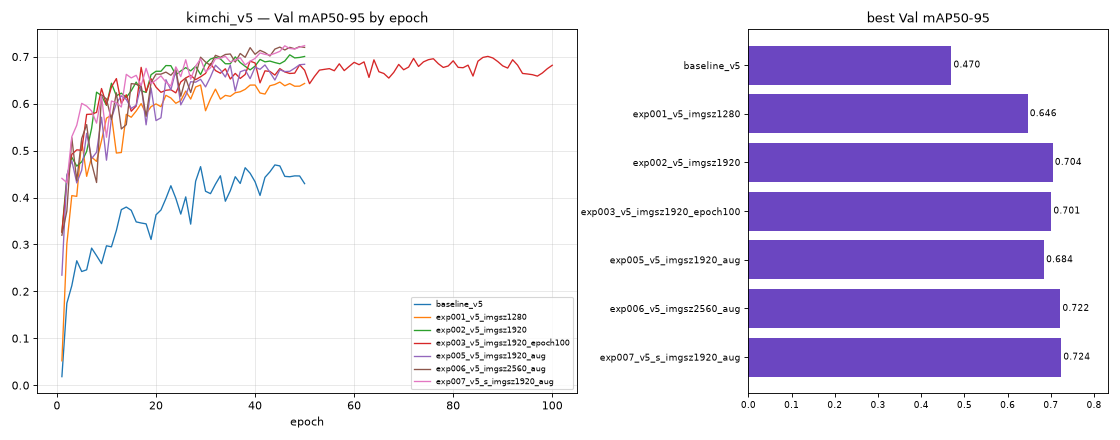
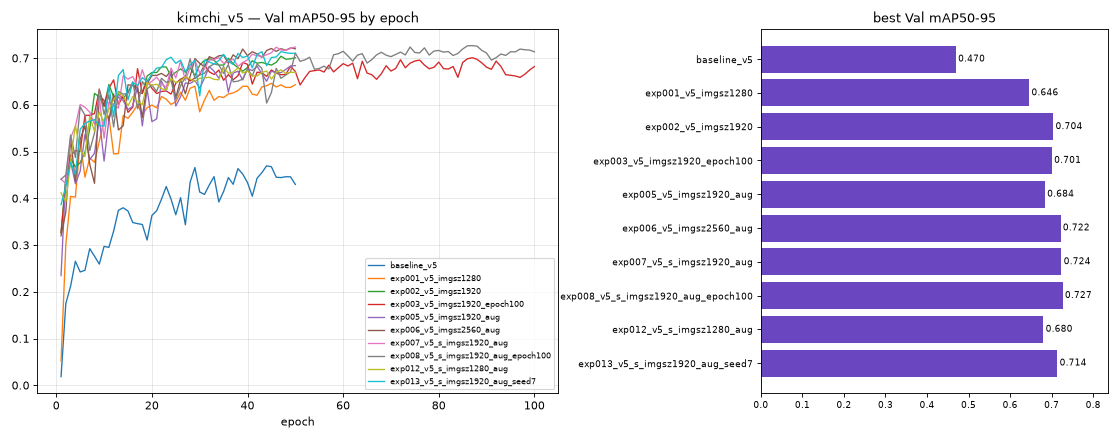
feat(subject8): 1라운드 결과 통합(exp008·010·010b·012·013) + 추론 옵션 비교(15, TTA·agnostic NMS 손해) + 2라운드 6명 계획(exp014~017, Final 후보 3개 × seed) + Frozen Test 스크립트(16)

diff --git a/subject8/scripts/16_evaluate_final_test.py b/subject8/scripts/16_evaluate_final_test.py
@@ -1,0 +1,74 @@
+"""Final Model Frozen Test 평가 — Final Model 을 Validation 근거로 확정한 뒤 **한 번만** 실행한다 (가이드 21장, 산출물 5).
+
+    python scripts/16_evaluate_final_test.py
+
+순서 (가이드 21.1): Validation 으로 Final 선택 → models/final/final_best.pt 복사 · src/registry.py OFFICIAL["final"] 에 실행 이름
+→ reports/final_model_selection.md 작성 → 이 스크립트 (Frozen Test 82장).
+결과는 보고만 한다 — 이 점수를 보고 모델·조건을 다시 고르지 않는다 (가이드 4037행).
+
+결과:
+    reports/05_final/final_metrics.csv · final_class_metrics.csv          Frozen Test 성능 (산출물 5)
+    reports/figures/final/final_test_{confusion_matrix, confusion_matrix_normalized, pr_curve}.png
+"""
+import csv
+import os
+import shutil
+import sys
+from pathlib import Path
+
+PROJECT_ROOT = Path(__file__).resolve().parents[1]
+if str(PROJECT_ROOT) not in sys.path:
+    sys.path.insert(0, str(PROJECT_ROOT))
+os.chdir(PROJECT_ROOT)
+
+from src import registry  # noqa: E402
+from src.evaluate_detector import evaluate_detector  # noqa: E402
+from src.split_builder import SplitBuilder  # noqa: E402
+from src.train_detector import rel, sha256_short  # noqa: E402
+
+OUT_DIR = PROJECT_ROOT / "reports" / "05_final"
+FIG_DIR = PROJECT_ROOT / "reports" / "figures" / "final"
+SELECTION = PROJECT_ROOT / "reports" / "final_model_selection.md"
+
+
+def main():
+    weight, run = registry.resolve("final")            # Final 이 정해지지 않았으면 여기서 멈춘다
+    if not SELECTION.is_file():
+        sys.exit(f"{rel(SELECTION)} 가 없습니다. Final 선택 이유를 먼저 기록하세요 (가이드 21.1).")
+    if any(OUT_DIR.glob("final_metrics.csv")):
+        sys.exit(f"{rel(OUT_DIR / 'final_metrics.csv')} 가 이미 있습니다. Frozen Test 는 한 번만 평가합니다.")
+    version = registry.run_version(run)
+    a = registry.run_args(run)
+    data = SplitBuilder(PROJECT_ROOT, version).dataset_yaml
+    print("=" * 65)
+    print(f" [Subject 08] Frozen Test — {run} ({rel(weight)}, sha256 {sha256_short(weight)}) · imgsz {a['imgsz']}")
+    print("=" * 65)
+    r = evaluate_detector(weight, data, "test", a["imgsz"], max(1, a["batch"]), project=PROJECT_ROOT / "runs" / "eval",
+                          name=f"final_test_{run}", allow_test=True)
+    OUT_DIR.mkdir(parents=True, exist_ok=True)
+    with (OUT_DIR / "final_metrics.csv").open("w", encoding="utf-8", newline="") as f:
+        w = csv.writer(f)
+        w.writerow(["model_version", "dataset_version", "split", "imgsz", "batch", "epochs", "seed",
+                    "images", "instances", "precision", "recall", "map50", "map50_95"])
+        w.writerow([run, version, "test", a["imgsz"], a["batch"], a["epochs"], a["seed"],
+                    r["images"], r["instances"], r["precision"], r["recall"], r["map50"], r["map50_95"]])
+    with (OUT_DIR / "final_class_metrics.csv").open("w", encoding="utf-8-sig", newline="") as f:
+        w = csv.DictWriter(f, fieldnames=list(r["per_class"][0]))
+        w.writeheader()
+        w.writerows(r["per_class"])
+    FIG_DIR.mkdir(parents=True, exist_ok=True)
+    for src, dst in (("confusion_matrix.png", "final_test_confusion_matrix.png"),
+                     ("confusion_matrix_normalized.png", "final_test_confusion_matrix_normalized.png"),
+                     ("BoxPR_curve.png", "final_test_pr_curve.png")):
+        if (r["save_dir"] / src).is_file():
+            shutil.copy2(r["save_dir"] / src, FIG_DIR / dst)
+    print(f"\n Frozen Test {r['images']}장 · 정답 {r['instances']}개")
+    print(f" P {r['precision']:.3f} | R {r['recall']:.3f} | mAP50 {r['map50']:.3f} | mAP50-95 {r['map50_95']:.3f}")
+    for c in r["per_class"]:
+        if c["instances"]:
+            print(f"  {c['class_id']} {c['class_name']:<22} {c['instances']:>4}  mAP50-95 {c['map50_95']:.3f}")
+    print(f" 저장: {rel(OUT_DIR)}/, {rel(FIG_DIR)}/")
+
+
+if __name__ == "__main__":
+    main()

diff --git a/subject8/scripts/15_eval_inference_options.py b/subject8/scripts/15_eval_inference_options.py
@@ -1,0 +1,68 @@
+"""추론 설정 비교 (재학습 없음) — 학습된 모델을 Validation 에서 추론 옵션만 바꿔 평가한다.
+
+    python scripts/15_eval_inference_options.py                                     # 기본 후보 (exp007 · exp008)
+    python scripts/15_eval_inference_options.py --models exp015_v5_s_imgsz2240_aug exp009_v5_m_imgsz1920_aug
+
+옵션 4가지: 기본 · TTA(augment=True, 좌우반전·크기 바꿔 여러 번 예측해 합침) · agnostic_nms(Class 가 달라도 겹친 박스 하나로)
+· 둘 다. 모델마다 학습 때 imgsz·batch 로 평가한다 (src/registry). Frozen Test 는 쓰지 않는다.
+
+결과: reports/04_improvement/inference_options.csv (모델 × 옵션 × 전체·Class 별 P·R·mAP50·mAP50-95·속도) — 다시 실행하면 같은 모델 줄만 바꾼다
+가설: kimchi_v1 실패 분석 H3 "같은 물체를 두 Class 로 예측" (FP 의 절반) → agnostic_nms 로 줄어드나, TTA 로 작은 이물이 늘어나나.
+"""
+import argparse
+import csv
+import os
+import sys
+from pathlib import Path
+
+PROJECT_ROOT = Path(__file__).resolve().parents[1]
+if str(PROJECT_ROOT) not in sys.path:
+    sys.path.insert(0, str(PROJECT_ROOT))
+os.chdir(PROJECT_ROOT)
+
+from src import registry  # noqa: E402
+from src.evaluate_detector import evaluate_detector  # noqa: E402
+from src.split_builder import SplitBuilder  # noqa: E402
+from src.train_detector import rel  # noqa: E402
+
+OUT = PROJECT_ROOT / "reports" / "04_improvement" / "inference_options.csv"
+OPTIONS = {"기본": {}, "TTA": {"augment": True}, "agnostic_nms": {"agnostic_nms": True},
+           "TTA+agnostic_nms": {"augment": True, "agnostic_nms": True}}
+DEFAULT_MODELS = ["exp007_v5_s_imgsz1920_aug", "exp008_v5_s_imgsz1920_aug_epoch100"]
+
+
+def main():
+    ap = argparse.ArgumentParser(description="추론 옵션 비교 (Validation)")
+    ap.add_argument("--models", nargs="*", default=DEFAULT_MODELS, help="실행 이름 (models/README.md)")
+    args = ap.parse_args()
+    old = list(csv.DictReader(OUT.open(encoding="utf-8-sig"))) if OUT.is_file() else []
+    rows = [r for r in old if r["model"] not in args.models]
+    for run in args.models:
+        weight, _ = registry.resolve(run)
+        a = registry.run_args(run)
+        if registry.run_tiles(run):
+            print(f" 건너뜀 (타일링 모델): {run}")
+            continue
+        data = SplitBuilder(PROJECT_ROOT, registry.run_version(run)).dataset_yaml
+        for opt, kw in OPTIONS.items():
+            r = evaluate_detector(weight, data, "val", a["imgsz"], max(1, a["batch"]), project=PROJECT_ROOT / "runs" / "eval",
+                                  name=f"infer_{run}_{opt}", **kw)
+            ms = sum(r["speed_ms"].values())
+            print(f" {run:<36} {opt:<17} P {r['precision']:.3f} R {r['recall']:.3f} mAP50 {r['map50']:.3f} "
+                  f"mAP50-95 {r['map50_95']:.3f}  {ms:.0f}ms/장")
+            base = {"model": run, "option": opt, "imgsz": a["imgsz"], "ms_per_image": round(ms, 1)}
+            rows.append({**base, "class": "all", "instances": r["instances"],
+                         **{k: r[k] for k in ("precision", "recall", "map50", "map50_95")}})
+            for c in r["per_class"]:
+                if c["instances"]:
+                    rows.append({**base, "class": c["class_id"], "instances": c["instances"],
+                                 **{k: c[k] for k in ("precision", "recall", "map50", "map50_95")}})
+    with OUT.open("w", encoding="utf-8-sig", newline="") as f:
+        w = csv.DictWriter(f, fieldnames=list(rows[0]))
+        w.writeheader()
+        w.writerows(rows)
+    print(f" 저장: {rel(OUT)}")
+
+
+if __name__ == "__main__":
+    main()

diff --git a/subject8/scripts/11_train_v5.py b/subject8/scripts/11_train_v5.py
@@ -95,6 +95,20 @@ RUNS = {
     "exp013": {"change": {**_EXP007, "seed": 7}, "run_name": "exp013_v5_s_imgsz1920_aug_seed7",
                "title": "kimchi_v5 반복 실험 exp013", "compare": "exp007_v5 (seed 42)", "augmentation": _AUG_TEXT,
                "note": "exp007_v5 와 seed 만 다르다 (42 → 7). 같은 조건에서 점수가 얼마나 흔들리는지 재서, 실험 사이 0.02 차이가 의미 있는지 판단한다."},
+    # ── 2라운드 (Final 후보 3개 × seed 2개 — docs/project/experiment_handoff.md 8장) ──
+    # exp013 결과 seed 만 바꿔도 ±0.01 흔들림 → 후보마다 seed 2개 이상 평균으로 비교한다
+    "exp014": {"change": {**_EXP007, "seed": 123}, "run_name": "exp014_v5_s_imgsz1920_aug_seed123",
+               "title": "kimchi_v5 반복 실험 exp014", "compare": "exp007_v5 · exp013_v5 (같은 조건 seed 42 · 7)", "augmentation": _AUG_TEXT,
+               "note": "exp007 조건의 세 번째 seed (123). 후보 A(11s · 1920) 의 seed 평균·흔들림을 잰다."},
+    "exp015": {"change": {**_EXP007, "imgsz": 2240, "batch": 2}, "run_name": "exp015_v5_s_imgsz2240_aug",
+               "title": "kimchi_v5 개선 실험 exp015", "compare": "exp007_v5 (imgsz 1920)", "augmentation": _AUG_TEXT,
+               "note": "exp007_v5 와 다른 변수는 imgsz(1920 → 2240) 하나 (batch 3 → 2, GPU 9.4GB 측정). 11n 에서 해상도 효과가 컸고(+0.038), 11s·2560 은 메모리 초과라 2240."},
+    "exp016": {"change": {**_EXP007, "imgsz": 2240, "batch": 2, "seed": 7}, "run_name": "exp016_v5_s_imgsz2240_aug_seed7",
+               "title": "kimchi_v5 반복 실험 exp016", "compare": "exp015_v5 (seed 42)", "augmentation": _AUG_TEXT,
+               "note": "exp015 조건의 두 번째 seed (7). 후보 B(11s · 2240) 의 seed 평균."},
+    "exp017": {"change": {**_EXP007, "model_name": "yolo11m.pt", "batch": 2, "seed": 7}, "run_name": "exp017_v5_m_imgsz1920_aug_seed7",
+               "title": "kimchi_v5 반복 실험 exp017", "compare": "exp009_v5 (seed 42)", "augmentation": _AUG_TEXT,
+               "note": "exp009 조건(YOLO11m · 1920 · batch 2, GPU 9.8GB 측정)의 두 번째 seed (7). 후보 C(11m · 1920) 의 seed 평균."},
 }
 REPORT_DIR = PROJECT_ROOT / "reports" / "04_improvement"
 BASELINE_REPORT = PROJECT_ROOT / "reports" / "02_baseline" / "baseline_training_condition.md"   # 가이드 이름 (산출물 2)

diff --git a/subject8/src/evaluate_detector.py b/subject8/src/evaluate_detector.py
@@ -19,8 +19,9 @@ def count_split_images(data_yaml, split: str) -> int:
 
 
 def evaluate_detector(model_path, data_yaml, split: str, imgsz: int, batch: int = 16,
-                      project="runs", name="eval", allow_test: bool = False) -> Dict:
-    """model.val() 로 평가 → 전체·Class별 지표 dict. 그래프(PR 곡선, Confusion Matrix)는 project/name 에 저장"""
+                      project="runs", name="eval", allow_test: bool = False, **val_kwargs) -> Dict:
+    """model.val() 로 평가 → 전체·Class별 지표 dict. 그래프(PR 곡선, Confusion Matrix)는 project/name 에 저장.
+    val_kwargs 는 model.val() 에 그대로 넘긴다 (예: augment=True 로 TTA, agnostic_nms=True)"""
     if split == "test" and not allow_test:
         raise PermissionError("Frozen Test 는 Final Model 확정 후 8일차에만 평가합니다 (allow_test=True 필요).")
     if split not in ("train", "val", "test"):
@@ -30,7 +31,7 @@ def evaluate_detector(model_path, data_yaml, split: str, imgsz: int, batch: int 
 
     model = YOLO(str(model_path))
     m = model.val(data=str(data_yaml), split=split, imgsz=imgsz, batch=batch,
-                  plots=True, project=str(project), name=name, exist_ok=True, verbose=False)
+                  plots=True, project=str(project), name=name, exist_ok=True, verbose=False, **val_kwargs)
 
     names = m.names
     per_class = []

diff --git a/subject8/docs/project/experiment_handoff.md b/subject8/docs/project/experiment_handoff.md
@@ -127,3 +127,53 @@ cd .. && git add -A subject8 && git commit -m "…" && git fetch . feature/ariuc
 - 학습이 끝났는데 조건 기록에서 오류가 나면 학습을 다시 하지 말고 `python scripts/11_train_v5.py --run <실험> --report-only`.
 - 실행 폴더·Weight 가 이미 있으면 스크립트가 멈춘다 (덮어쓰지 않음). 실패한 실행을 다시 하려면 `runs/<실행>/` 만 지운다 (`results.csv` 가 없을 때만).
 - 갈변(작은 점)은 Train 에 4개뿐이라 이번 실험들로도 크게 좋아지기 어렵다 — 한계로 기록돼 있다 ([`baseline_vs_improved.md`](../../reports/04_improvement/baseline_vs_improved.md) 3장).
+
+## 8. 2라운드 — 6명 동시, 오늘 Final Model 확정 (2026-10-19)
+
+### 1라운드 결과 (같은 Val 104장, mAP50-95)
+
+| 실험 | 결과 | 알게 된 것 |
+|---|---|---|
+| exp008 (exp007 + epoch 100) | 0.727 | +0.003 — 학습량을 늘려도 거의 안 오름 (시간 2배) |
+| **exp013 (exp007 과 seed 만 다름)** | 0.714 | **seed 만 바꿔도 ±0.01 흔들림** → 0.01 안쪽 차이는 의미 없음 · 후보는 seed 2개 이상 평균으로 비교 |
+| exp012 (해상도 1280) | 0.680 | -0.044 — 11s 에서도 해상도가 중요 |
+| exp010 (11s + 타일링) | 0.723 (원본 단위, exp007 0.729) | 효과 없음 — 11s 는 원본 1920 만으로 충분 |
+| exp010b (exp010 을 혜성 PC 에서 다시) | 0.723 | **다른 PC 에서 소수 4자리까지 같음 — 재현성 확인** |
+| 추론 옵션 (exp007·exp008, `15_eval_inference_options.py`) | TTA 0.716 · agnostic_nms 0.715 (기본 0.731) | 둘 다 손해 → **Final 은 기본 추론 설정** |
+
+### 2라운드 설계 — Final 후보 3개 × seed 2~3개
+
+남은 질문은 "11s·1920(지금 최고)보다 **해상도를 더**(2240) 또는 **모델을 더**(11m) 키우면 나아지나" 하나다. seed 흔들림이 ±0.01 이라 후보마다 seed 2개 이상을 돌려 **평균**으로 비교한다.
+
+| 후보 | 조건 | seed 42 | seed 7 | seed 123 |
+|---|---|---|---|---|
+| **A** | 11s · 1920 · 증강 (= exp007) | exp007 0.724 ✅ | exp013 0.714 ✅ | **exp014** |
+| **B** | 11s · **2240** · 증강 · batch 2 (9.4GB) | **exp015** | **exp016** | — |
+| **C** | **11m** · 1920 · 증강 · batch 2 (9.8GB) | **exp009** | **exp017** | — |
+| (참고) | 11s · 1920 · 증강 끄기 | **exp011** — 증강 효과 분리 (발표용 근거) | | |
+
+### 6명 배정 (각 PC 실험 1개 — 약 1~1.5시간, 모두 RTX 3060)
+
+| 담당 · 브랜치 | 실험 | 명령 (`cd ~/group_3/subject8` 에서) | 상태 |
+|---|---|---|---|
+| 혜성 · `feat/hyesung` | exp009 (후보 C seed 42) | `.venv/bin/python scripts/11_train_v5.py --run exp009` | 다시 돌리는 중 |
+| 상우 · `feature/sonny` | exp011 (증강 끄기) | `.venv/bin/python scripts/11_train_v5.py --run exp011` | 다시 돌리는 중 |
+| 동연 · `feature/ariuck` (정리 담당) | exp015 (후보 B seed 42) | `.venv/bin/python scripts/11_train_v5.py --run exp015` | 새로 |
+| 팀원 4 · `feature/seokbeom` | exp016 (후보 B seed 7) | `.venv/bin/python scripts/11_train_v5.py --run exp016` | 새로 |
+| 팀원 5 · `feature/huyoung` | exp017 (후보 C seed 7) | `.venv/bin/python scripts/11_train_v5.py --run exp017` | 새로 |
+| 팀원 6 · `feature/donghun` | exp014 (후보 A seed 123) | `.venv/bin/python scripts/11_train_v5.py --run exp014` | 새로 |
+
+- 팀원 4~6 의 브랜치는 GitHub 에 있는 이름으로 짐작해 적은 것 — 사람에 맞게 바꿔도 된다. 새 브랜치면 `git checkout -b <이름> origin/main`.
+- **새로 시작하는 4명은 먼저 최신 main 을 받는다** (exp014~017 조건이 main 에 있음): `cd ~/group_3 && git fetch origin && git checkout <브랜치> && git merge origin/main` → `cd subject8 && python3 scripts/00_setup.py` → 위 명령.
+- 혜성·상우는 이미 돌리고 있는 exp009·exp011 을 그대로 끝낸다 (조건은 1라운드 때 등록된 것과 같음).
+- 끝나면 3·4장 방법대로 **자기 실험 이름이 들어간 파일만** 커밋·푸시 (`runs/<실행>/`, `models/improved/<실행>.pt`, `reports/04_improvement/<실행>_training_condition.md`). 실행 이름: `exp014_v5_s_imgsz1920_aug_seed123` · `exp015_v5_s_imgsz2240_aug` · `exp016_v5_s_imgsz2240_aug_seed7` · `exp017_v5_m_imgsz1920_aug_seed7` · `exp009_v5_m_imgsz1920_aug` · `exp011_v5_s_imgsz1920`
+
+### 오늘 Final 확정 순서 (정리 담당 동연)
+
+1. 6명 푸시 → `feature/ariuck` 에 합치기 → `python scripts/plot_runs.py`
+2. **후보별 seed 평균** (A: exp007·013·014 / B: exp015·016 / C: exp009·017) 을 비교
+   - 가장 높은 후보를 고르되, **평균 차이가 0.01 안이면 더 가볍고 빠른 쪽**(A → B → C 순)을 고른다 (흔들림 안의 차이라서)
+3. 고른 후보 안에서 Val mAP50-95 가 가장 높은 실행을 Final 로 → `models/final/final_best.pt` 복사 · `src/registry.py` 의 `OFFICIAL["final"]` 에 실행 이름
+4. `reports/final_model_selection.md` 작성 (후보별 평균·흔들림, Class 별, 학습·예측 시간, 선택 이유, 원본 Weight·sha256)
+5. **그다음에만** Frozen Test 한 번: `python scripts/16_evaluate_final_test.py` → `reports/05_final/final_metrics.csv`
+6. 커밋 → main 병합 → 푸시

diff --git a/subject8/models/README.md b/subject8/models/README.md
@@ -19,6 +19,11 @@
 | `exp005_v5_imgsz1920_aug` |  | [improved/exp005_v5_imgsz1920_aug.pt](../models/improved/exp005_v5_imgsz1920_aug.pt) | 1920 | 50 | 6 | 50 | 0.841 | 0.760 | 0.800 | 0.684 | [기록](../reports/04_improvement/exp005_v5_imgsz1920_aug_training_condition.md) | [학습 곡선](../reports/figures/runs/exp005_v5_imgsz1920_aug.png) · [Confusion](../runs/exp005_v5_imgsz1920_aug/confusion_matrix.png) · [PR](../runs/exp005_v5_imgsz1920_aug/BoxPR_curve.png) |
 | `exp006_v5_imgsz2560_aug` |  | [improved/exp006_v5_imgsz2560_aug.pt](../models/improved/exp006_v5_imgsz2560_aug.pt) | 2560 | 50 | 3 | 49 | 0.872 | 0.814 | 0.832 | 0.722 | [기록](../reports/04_improvement/exp006_v5_imgsz2560_aug_training_condition.md) | [학습 곡선](../reports/figures/runs/exp006_v5_imgsz2560_aug.png) · [Confusion](../runs/exp006_v5_imgsz2560_aug/confusion_matrix.png) · [PR](../runs/exp006_v5_imgsz2560_aug/BoxPR_curve.png) |
 | `exp007_v5_s_imgsz1920_aug` |  | [improved/exp007_v5_s_imgsz1920_aug.pt](../models/improved/exp007_v5_s_imgsz1920_aug.pt) | 1920 | 50 | 3 | 50 | 0.956 | 0.794 | 0.824 | 0.724 | [기록](../reports/04_improvement/exp007_v5_s_imgsz1920_aug_training_condition.md) | [학습 곡선](../reports/figures/runs/exp007_v5_s_imgsz1920_aug.png) · [Confusion](../runs/exp007_v5_s_imgsz1920_aug/confusion_matrix.png) · [PR](../runs/exp007_v5_s_imgsz1920_aug/BoxPR_curve.png) |
+| `exp008_v5_s_imgsz1920_aug_epoch100` |  | [improved/exp008_v5_s_imgsz1920_aug_epoch100.pt](../models/improved/exp008_v5_s_imgsz1920_aug_epoch100.pt) | 1920 | 100 | 3 | 87 | 0.952 | 0.795 | 0.828 | 0.727 | [기록](../reports/04_improvement/exp008_v5_s_imgsz1920_aug_epoch100_training_condition.md) | [학습 곡선](../reports/figures/runs/exp008_v5_s_imgsz1920_aug_epoch100.png) · [Confusion](../runs/exp008_v5_s_imgsz1920_aug_epoch100/confusion_matrix.png) · [PR](../runs/exp008_v5_s_imgsz1920_aug_epoch100/BoxPR_curve.png) |
+| `exp010_v5_s_tile2x2_aug` |  | [improved/exp010_v5_s_tile2x2_aug.pt](../models/improved/exp010_v5_s_tile2x2_aug.pt) | 1920 | 50 | 3 | 49 | 0.897 | 0.763 | 0.814 | 0.712 (조각 Val) | [기록](../reports/04_improvement/exp010_v5_s_tile2x2_aug_training_condition.md) | [학습 곡선](../reports/figures/runs/exp010_v5_s_tile2x2_aug.png) · [Confusion](../runs/exp010_v5_s_tile2x2_aug/confusion_matrix.png) · [PR](../runs/exp010_v5_s_tile2x2_aug/BoxPR_curve.png) |
+| `exp010b_v5_s_tile2x2_aug` |  | [improved/exp010b_v5_s_tile2x2_aug.pt](../models/improved/exp010b_v5_s_tile2x2_aug.pt) | 1920 | 50 | 3 | 49 | 0.897 | 0.763 | 0.814 | 0.712 (조각 Val) | [기록](../reports/04_improvement/exp010b_v5_s_tile2x2_aug_training_condition.md) | [학습 곡선](../reports/figures/runs/exp010b_v5_s_tile2x2_aug.png) · [Confusion](../runs/exp010b_v5_s_tile2x2_aug/confusion_matrix.png) · [PR](../runs/exp010b_v5_s_tile2x2_aug/BoxPR_curve.png) |
+| `exp012_v5_s_imgsz1280_aug` |  | [improved/exp012_v5_s_imgsz1280_aug.pt](../models/improved/exp012_v5_s_imgsz1280_aug.pt) | 1280 | 50 | 6 | 35 | 0.748 | 0.741 | 0.785 | 0.680 | [기록](../reports/04_improvement/exp012_v5_s_imgsz1280_aug_training_condition.md) | [학습 곡선](../reports/figures/runs/exp012_v5_s_imgsz1280_aug.png) · [Confusion](../runs/exp012_v5_s_imgsz1280_aug/confusion_matrix.png) · [PR](../runs/exp012_v5_s_imgsz1280_aug/BoxPR_curve.png) |
+| `exp013_v5_s_imgsz1920_aug_seed7` |  | [improved/exp013_v5_s_imgsz1920_aug_seed7.pt](../models/improved/exp013_v5_s_imgsz1920_aug_seed7.pt) | 1920 | 50 | 3 | 47 | 0.827 | 0.808 | 0.817 | 0.714 | [기록](../reports/04_improvement/exp013_v5_s_imgsz1920_aug_seed7_training_condition.md) | [학습 곡선](../reports/figures/runs/exp013_v5_s_imgsz1920_aug_seed7.png) · [Confusion](../runs/exp013_v5_s_imgsz1920_aug_seed7/confusion_matrix.png) · [PR](../runs/exp013_v5_s_imgsz1920_aug_seed7/BoxPR_curve.png) |
 
 ## kimchi_v4
 

diff --git a/subject8/reports/04_improvement/baseline_vs_improved.md b/subject8/reports/04_improvement/baseline_vs_improved.md
@@ -16,6 +16,11 @@
 | exp005_v5 | 11n | 1920 | 증강 | 0.841 | 0.760 | 0.800 | 0.684 | 23분 | 기각 |
 | exp006_v5 | 11n | 2560 | 증강 + imgsz | 0.872 | 0.814 | 0.832 | 0.722 | **303분** | 보류 |
 | **exp007_v5** | **11s** | 1920 | 증강 + 모델 | 0.956 | 0.794 | 0.824 | **0.724** | 43분 | **채택 후보** |
+| exp008_v5 | 11s | 1920 | exp007 + epochs 100 | 0.952 | 0.796 | 0.828 | 0.727 | 86분 | 기각 (+0.003) |
+| exp013_v5 | 11s | 1920 | exp007 과 seed 만 다름 | 0.827 | 0.808 | 0.817 | 0.714 | 43분 | 기준 (흔들림 ±0.01) |
+| exp012_v5 | 11s | 1280 | exp007 + imgsz 1280 | 0.748 | 0.741 | 0.785 | 0.680 | 18분 | 기각 (-0.044) |
+| exp010_v5 | 11s | 1920 | exp007 + 2×2 타일링 | 0.859* | 0.791* | 0.810* | 0.723* | 169분 | 기각 (같은 코드 exp007 0.729) |
+| exp010b_v5 | 11s | 1920 | exp010 을 다른 PC 에서 | 0.859* | 0.791* | 0.810* | 0.723* | 170분 | 재현성 확인 (소수 4자리 같음) |
 
 \* 타일링은 학습 중 Val 이 조각 단위라, 조각 예측을 합쳐 원본 Val 을 같은 코드(`src/tiling.py`)로 채점 — 같은 코드로 잰 exp002_v5 는 0.680 ([`tiling_eval.csv`](tiling_eval.csv)).
 
@@ -27,6 +32,9 @@
 4. **아직 오르는 중** — exp006·exp007 은 best epoch 가 49·50 (마지막 근처). 학습량을 늘리면 더 오를 여지가 있다 → exp008 (epoch 100) 계획.
 5. **비용 대비 효율은 11s · 1920 이 최선** — exp006(2560)은 점수가 exp007 과 같은데 학습 시간이 7배 (2560 Val 이 RTX 3060 12GB 를 넘어 공유 메모리 사용). 이 GPU 에서는 해상도보다 모델 크기를 키우는 쪽이 효율적이다.
 6. **타일링은 작은 이물에 도움** — 원본 단위 +0.019, Recall +0.033, 가지 0.80 → 0.90, 갈변 0.04 → 0.08. 대신 나뭇잎·종이 -0.04, 학습 4배.
+8. **같은 조건 반복 흔들림 ±0.01** (exp007 0.724 vs exp013 seed 7 0.714) — 실험 사이 0.01 안쪽 차이는 우연일 수 있다. 그래서 2라운드는 후보마다 seed 2~3개 **평균**으로 Final 을 고른다.
+9. **재현성** — 같은 조건을 다른 학원 PC 에서 돌린 exp010·exp010b 가 소수 4자리까지 같다 (seed·deterministic 고정). 결과를 PC 와 무관하게 다시 만들 수 있다.
+10. **효과 없던 것도 근거** — 11s 에서는 epoch 100 (+0.003, 시간 2배)·타일링 (-0.006, 4배)·TTA (-0.015)·agnostic NMS (-0.016) 모두 이득이 없었다 ([`inference_options.csv`](inference_options.csv)). 해상도를 1280 으로 낮추면 -0.044 라, 11s 에서도 해상도는 계속 중요하다.
 7. **데이터셋 재분할(v4 → v5) 자체가 개선** — v4 Val 은 132장 중 83장이 Train 과 같은 촬영 묶음이라 점수가 부풀려졌다 (v4 갈변 AP50 0.86 은 같은 묶음 G09 갈변). v5 에서 6장(G00 예외)으로 줄여 "처음 보는 장면" 성능에 가까운 숫자가 됐다 — 점수는 낮아졌지만 정직해졌다.
 
 ## 3. 한계점
@@ -44,7 +52,7 @@
 
 ## 4. Final Model 후보 (아직 정하지 않음)
 
-- **현재 1순위: exp007_v5** (11s · 1920 · 증강, Val 0.724, 43분). 3대 분산 실험(exp008~013) 결과를 보고 8일차에 Val 근거로 확정한다.
+- **현재 1순위: 후보 A = 11s · 1920 · 증강** (exp007 0.724 · exp013 0.714). 2라운드에서 후보 B (11s · 2240) · C (11m · 1920) 와 seed 평균으로 비교해 오늘 확정한다 ([experiment_handoff.md](../../docs/project/experiment_handoff.md) 8장). 추론은 기본 설정 (TTA·agnostic NMS 는 손해).
 - 확정하면 `models/final/final_best.pt` 로 복사하고 `src/registry.py` 의 `OFFICIAL["final"]` 에 실행 이름을 적은 뒤, `reports/final_model_selection.md` 를 쓰고 Frozen Test 를 한 번 평가한다 (가이드 21장).
 
 ## 5. 다시 만들기

diff --git a/subject8/docs/scripts/15_eval_inference_options.md b/subject8/docs/scripts/15_eval_inference_options.md
@@ -1,0 +1,35 @@
+# `subject8/scripts/15_eval_inference_options.py`
+
+> 추론 설정 비교 (재학습 없음) — 학습된 모델을 Validation 에서 추론 옵션만 바꿔 평가한다: 기본 · TTA(`augment=True`) · `agnostic_nms` · 둘 다.
+
+[← 코드 문서 목차](../README.md) · [코드 보기](../../scripts/15_eval_inference_options.py)
+
+## 사용법
+
+```bash
+cd subject8
+python scripts/15_eval_inference_options.py                                   # 기본 후보 exp007 · exp008
+python scripts/15_eval_inference_options.py --models exp015_v5_s_imgsz2240_aug
+```
+
+| 입력 | 출력 |
+|---|---|
+| 모델 (`models/` — [`registry`](../src/registry.md)), 그 Version 의 Validation | `reports/04_improvement/inference_options.csv` (모델 × 옵션 × 전체·Class 별 P·R·mAP50·mAP50-95 · ms/장), `runs/eval/infer_<실행>_<옵션>/` |
+
+## 주요 구성요소
+
+| 이름 | 설명 |
+|---|---|
+| `OPTIONS` | `기본` · `TTA` (좌우반전·크기 바꿔 여러 번 예측해 합침) · `agnostic_nms` (Class 가 달라도 겹친 박스 하나로) · `TTA+agnostic_nms` |
+| `main()` | 모델마다 학습 때 imgsz·batch 로 [`evaluate_detector`](../src/evaluate_detector.md)(`**val_kwargs`) 4번 → CSV (같은 모델 줄만 바꿈) |
+
+## 의존성
+
+- **사용하는 것**: [`src/registry`](../src/registry.md), [`src/evaluate_detector`](../src/evaluate_detector.md), [`src/split_builder`](../src/split_builder.md)
+- **사용하는 곳**: 직접 실행 (Final Model 확정 전 추론 설정 결정)
+
+## 주의사항
+
+- Frozen Test 는 쓰지 않는다. 타일링 모델은 건너뛴다.
+- TTA 는 예측이 약 2~3배 느리다 (`ms_per_image`). 채택은 mAP50-95 +0.01 이상이고 속도가 감당될 때만.
+- 가설: kimchi_v1 실패 분석 H3 "같은 물체를 두 Class 로 예측" → `agnostic_nms`.

diff --git a/subject8/docs/scripts/16_evaluate_final_test.md b/subject8/docs/scripts/16_evaluate_final_test.md
@@ -1,0 +1,31 @@
+# `subject8/scripts/16_evaluate_final_test.py`
+
+> Final Model 의 **Frozen Test 평가 (한 번만)**. Validation 근거로 Final 을 확정하고 선택 이유를 기록한 뒤에만 실행된다 (가이드 21장, 산출물 5).
+
+[← 코드 문서 목차](../README.md) · [코드 보기](../../scripts/16_evaluate_final_test.py)
+
+## 사용법
+
+```bash
+cd subject8
+python scripts/16_evaluate_final_test.py
+```
+
+실행 전 조건 (하나라도 없으면 멈춤):
+1. `models/final/final_best.pt` 와 [`src/registry.py`](../src/registry.md) 의 `OFFICIAL["final"]` (실행 이름)
+2. `reports/final_model_selection.md` (Validation 결과 · 선택 이유 · 원본 Weight)
+3. `reports/05_final/final_metrics.csv` 가 아직 없음 (두 번 평가 방지)
+
+| 입력 | 출력 |
+|---|---|
+| Final Weight, 그 Version 의 Frozen Test (82장) | `reports/05_final/final_metrics.csv` · `final_class_metrics.csv`, `reports/figures/final/final_test_{confusion_matrix, confusion_matrix_normalized, pr_curve}.png`, `runs/eval/final_test_<실행>/` |
+
+## 의존성
+
+- **사용하는 것**: [`src/registry`](../src/registry.md) (`resolve("final")`), [`src/evaluate_detector`](../src/evaluate_detector.md) (`allow_test=True`), [`src/split_builder`](../src/split_builder.md)
+- **사용하는 곳**: 직접 실행 (8일차)
+
+## 주의사항
+
+- 결과는 보고만 한다. Test 점수를 보고 모델·조건을 다시 고르지 않는다 (가이드 4037행).
+- 학습 때 imgsz·batch 로 평가한다 (`runs/<실행>/args.yaml`).

diff --git a/subject8/docs/README.md b/subject8/docs/README.md
@@ -27,6 +27,8 @@ docs/
 | [`scripts/08_predict_images.py`](scripts/08_predict_images.md) | 사진 예측 + 정답 비교 이미지 · TP/FP/FN 표 |
 | [`scripts/11_train_v5.py`](scripts/11_train_v5.md) | `kimchi_v5`(C안) 학습: baseline_v5 (640) · exp001_v5 (1280) · exp002_v5 (1920) |
 | [`scripts/14_train_tiles_v5.py`](scripts/14_train_tiles_v5.md) | 개선 실험 exp004_v5 타일링 (2×2 조각 학습 → 조각 예측 합쳐 원본 Val 채점) |
+| [`scripts/15_eval_inference_options.py`](scripts/15_eval_inference_options.md) | 추론 설정 비교 (TTA · agnostic NMS) — 재학습 없이 Validation |
+| [`scripts/16_evaluate_final_test.py`](scripts/16_evaluate_final_test.md) | Final Model Frozen Test 평가 (한 번만, Final 확정·선택 기록 후) |
 | [`scripts/plot_v5_vs_v4.py`](scripts/plot_v5_vs_v4.md) | `kimchi_v4` → `v5` 달라진 점 그림·CSV (누수 · Class 박스 · Val 점수) |
 | [`scripts/make_split_worksheet.py`](scripts/make_split_worksheet.md) | 수동 분할 준비: 담당자별 작업 시트(CSV) 6개 · 촬영 순서 사진판(JPG) |
 | [`scripts/plot_runs.py`](scripts/plot_runs.md) | 모든 실행의 학습 곡선 · Version 별 비교 그래프 · `runs_summary.csv` (results.csv 만으로) |

diff --git a/subject8/README.md b/subject8/README.md
@@ -318,7 +318,7 @@ python scripts/plot_runs.py                         # 그래프 · runs_summary.
 \* 타일링은 학습 중 Val 이 조각 단위라, 조각 예측을 합쳐 원본 Val 104장을 같은 코드(`src/tiling.py`)로 채점한 값 — 같은 코드로 잰 exp002_v5 는 0.680. [`tiling_eval.csv`](reports/04_improvement/tiling_eval.csv)
 
 - 개선점·한계 정리 (발표용): [`reports/04_improvement/baseline_vs_improved.md`](reports/04_improvement/baseline_vs_improved.md)
-- 다음 실험 (3대 분산 — 상우 `feature/sonny` exp008·013·012 · 동연 `feature/ariuck` exp010 · 혜성 `feat/hyesung` exp009·011): [`docs/project/experiment_handoff.md`](docs/project/experiment_handoff.md)
+- 1라운드(3대) 결과: epoch 100 · 타일링 · 1280 · TTA 모두 이득 없음, seed 흔들림 ±0.01, 다른 PC 재현성 확인 — 2라운드(6명, Final 후보 3개 × seed) 계획: [`docs/project/experiment_handoff.md`](docs/project/experiment_handoff.md)
 - 지난 Version(v4) 개선 분석: [`reports/history/kimchi_v4/baseline_vs_improved.md`](reports/history/kimchi_v4/baseline_vs_improved.md)
 
 ## 11. Final Model
